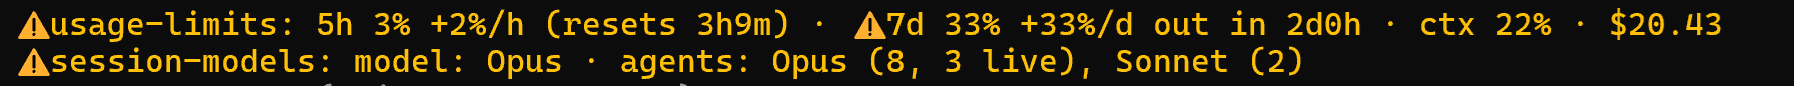
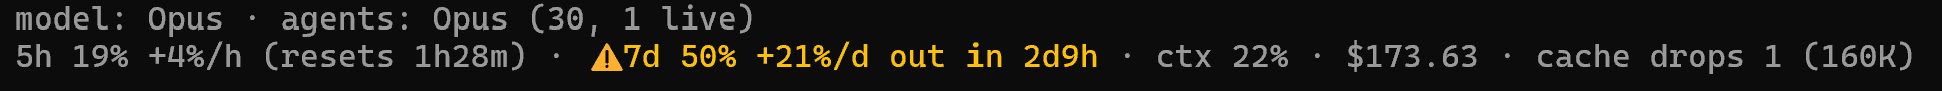
README: the dim lines, cache drops and pit-stop's cache note, with a new screenshot
Claude-Session: https://claude.ai/code/session_01Ve5d8vz8RRJQ4NZ2Pswrf5

diff --git a/README.md b/README.md
@@ -2,9 +2,9 @@
 
 Three [Claude Code](https://claude.com/claude-code) mods. Two tell you a session is eating your usage limits while you can still stop it, not after you hit the wall. The third keeps subagents from growing large enough to do that.
 
-The first two each add a line under the prompt:
+The first two each add a dim line above the prompt, with only the warnings in color:
 
-![usage-limits: 5h 3% +2%/h (resets 3h9m) · 7d 33% +33%/d out in 2d0h · ctx 22% · $20.43 — session-models: model: Opus · agents: Opus (8, 3 live), Sonnet (2)](assets/mods.png)
+![session-models: model: Opus · agents: Opus (30, 1 live) — usage-limits: 5h 19% +4%/h (resets 1h28m) · ⚠ 7d 50% +21%/d out in 2d9h · ctx 22% · $173.63 · cache drops 1 (160K)](assets/mods.png)
 
 [`usage-limits`](plugins/usage-limits) tracks the 5-hour and weekly windows. It shows how much of each you've used, how fast that number is climbing, and when it will hit 100% if that comes before the reset.
 
@@ -60,6 +60,7 @@ Each threshold appears as a row in `/config`. You can also set it under `pluginC
 | session-models | `contextWarnK` | 300 | Warns when a running agent sends this many thousand tokens of context per request. |
 | pit-stop | `nudgeAtK` | 300 | Asks a subagent to checkpoint when its requests carry this many thousand tokens of context. |
 | pit-stop | `stopAtK` | 450 | Gives a subagent 8 tool calls to checkpoint past this many thousand tokens, then refuses its tools. |
+| pit-stop | `cacheNotes` | on | Tells a subagent when its prompt cache expired during a long pause. The toast to you stays either way. |
 
 Claude Code also has a built-in mod worth turning on alongside these. "You should know" runs a side agent that points out things you or Claude may have missed. Enable it with `/plugin enable cc-plugin-you-should-know@builtin`. It needs a first-party session with telemetry on.
 
@@ -76,6 +77,8 @@ Claude Code also has a built-in mod worth turning on alongside these. "You shoul
 `5h reset` means the last reading's reset time has passed. The next request brings a fresh figure.
 
 `ctx 22%` is how full the main thread's context window is. `$14.10` is the session's cost at API prices, the same figure `/cost` reports.
+
+`cache drops 3 (1.9M)` appears once an agent's prompt cache has expired during a pause of more than 4 minutes and its next request rebuilt at least 100K tokens of context. It counts the main thread and every subagent: three drops so far this session, which re-wrote 1.9M tokens. Subagents keep their cache for 5 minutes unless you set `subagentPromptCacheTtl`, so an agent that waits on a long test run or a sleep loop pays to rebuild its whole context.
 
 ## Reading the agents line
 
@@ -96,6 +99,8 @@ The main agent gets a short section in its system prompt. It says to give each a
 Every subagent's brief gets a context budget added to the end. It asks the agent to read files by line range, keep command output short, and write a handoff note if it is asked to checkpoint.
 
 When a subagent's requests carry `nudgeAtK` thousand tokens of context, its next tool result comes with a note asking it to finish its current item and checkpoint. Past `stopAtK`, it gets 8 more tool calls to commit and write its note, and then every tool call is refused. Its final report starts with `CHECKPOINT:`, which tells the main agent to start a fresh agent from the note rather than resume the old one. A toast tells you each time.
+
+The brief also asks agents to run the narrowest command that proves a change and not to wait in sleep loops. If a subagent's cache still expires while it waits on its own tool call, the mod tells it once how much context it rebuilt and after how long a pause, and suggests checking on long jobs sooner or running something shorter. It gives no fixed polling interval, because whether polling pays depends on your plan and your jobs. Replayed over 945 real subagents, the note would have reached about 4% of agents in normal sessions.
 
 The defaults come from two analyses. One replayed 32 subagents from a long session against different limits, pricing every request at API rates. That includes re-writing an agent's whole context into the cache after it sits idle for more than five minutes, which was about a quarter of the cost. The other measured 938 subagents from a month of sessions on another machine. Both put the best limit at about twice the context an agent carries when it makes its first edit.
 
@@ -135,7 +140,7 @@ Or list them in the `env` block of `~/.claude/settings.json`. Separate the paths
 
 An interactive session watches those folders and reloads a mod when you save a file.
 
-Load each mod one way only. If it is in `CLAUDE_CODE_PLUGIN_DIRS` and also installed from the marketplace, it runs twice, with two status lines and every toast doubled. `claude plugin list` shows both copies.
+Load each mod one way only. If it is in `CLAUDE_CODE_PLUGIN_DIRS` and also installed from the marketplace, it runs twice, with every line and toast doubled. `claude plugin list` shows both copies.
 
 [`tools/ctx-study`](tools/ctx-study) reads your local session transcripts and reports how large your subagents grow, how much of the cost comes above pit-stop's limits, and whether its handoffs pay off. Run it weekly to check the limits still suit how you work.
 
